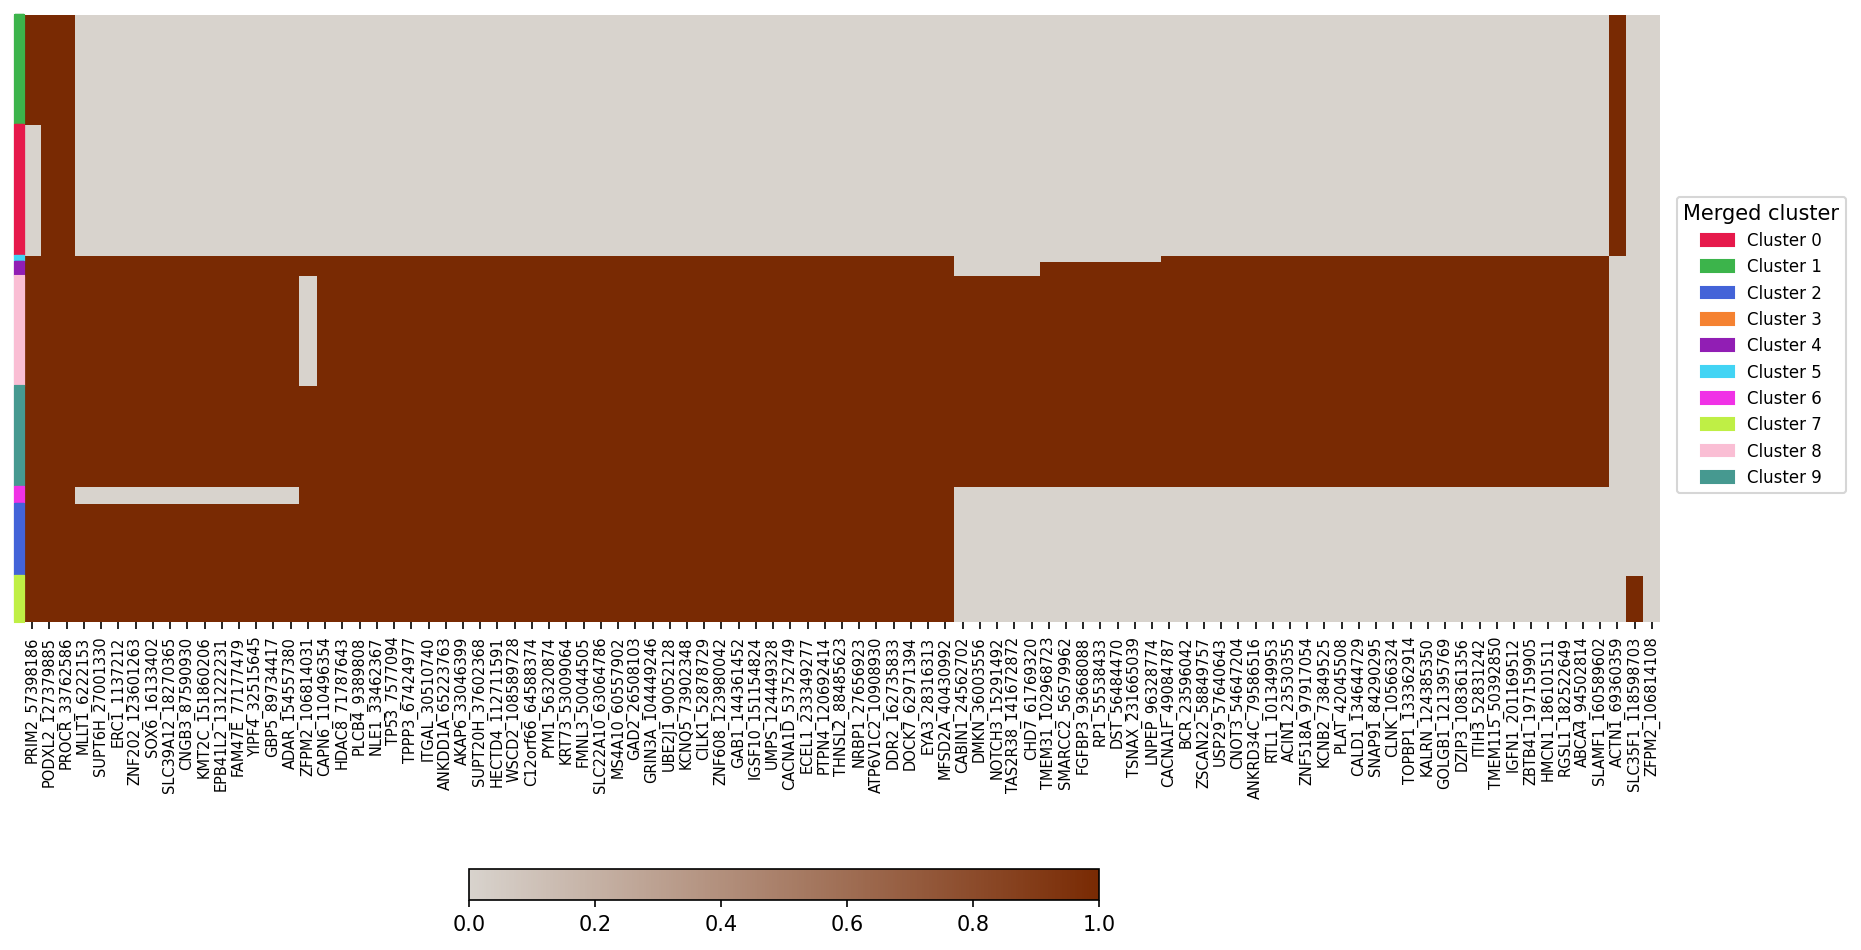
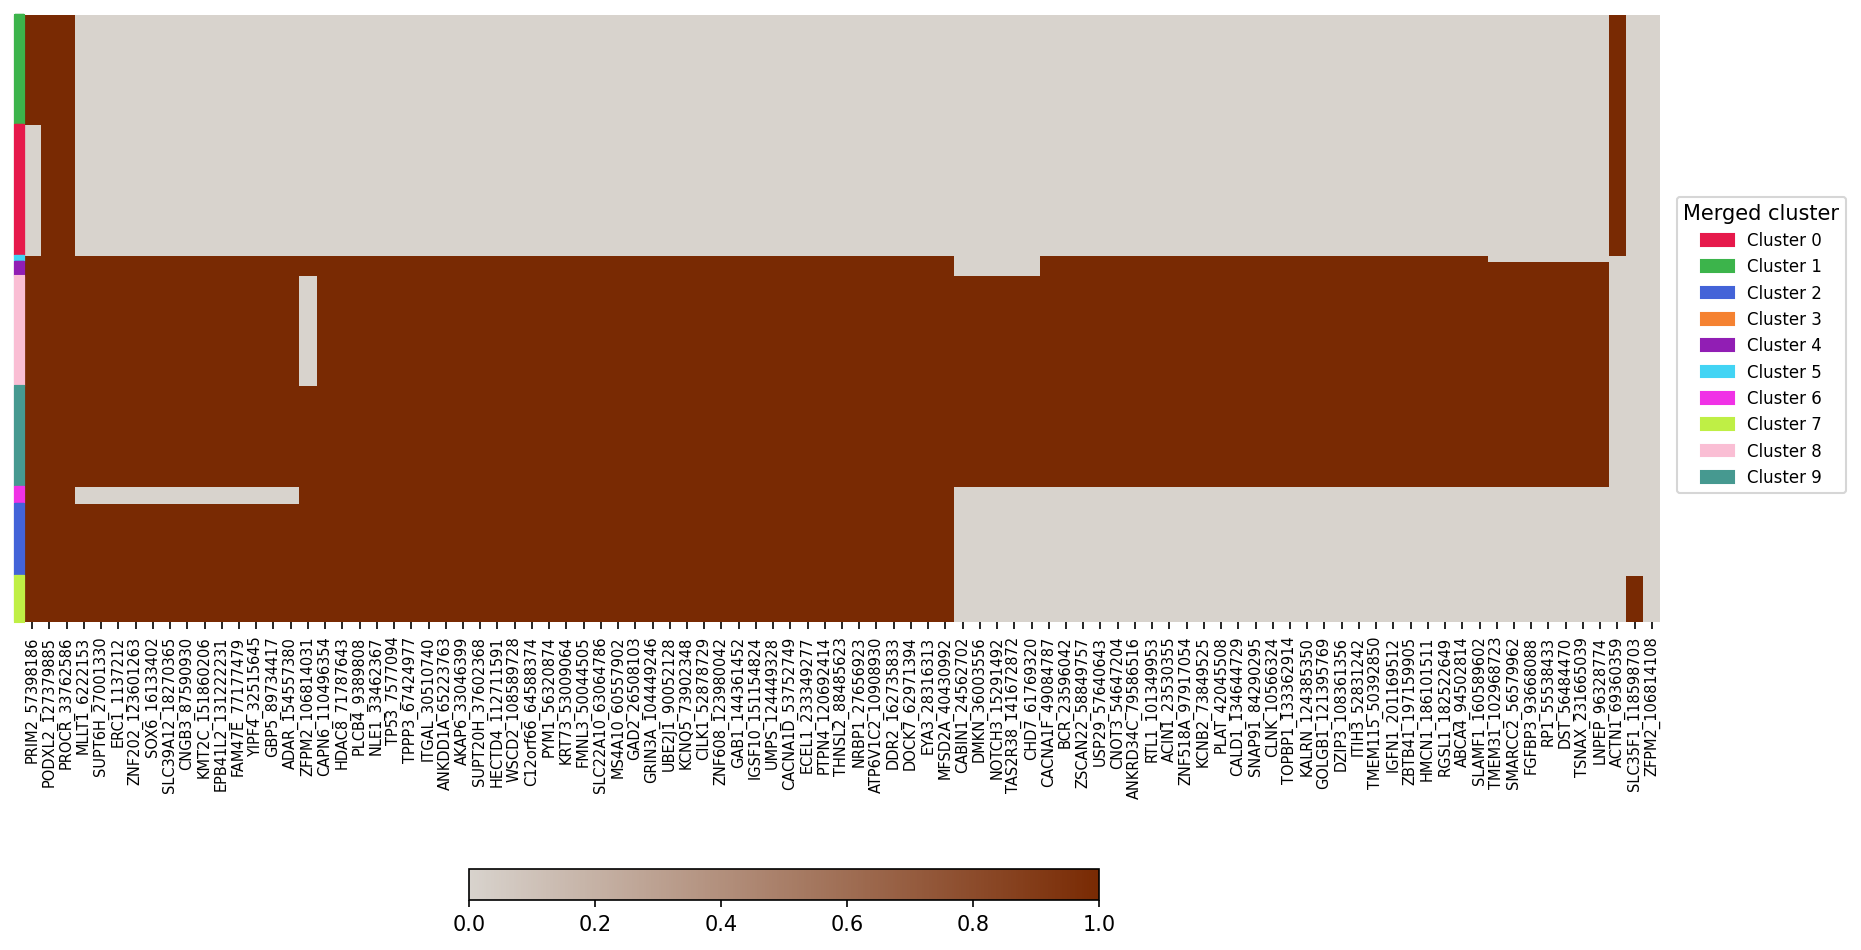
Update documentation

Changed region(s): [[0.561, 0.6716, 0.8726, 0.8242], [0.8103, 0.2442, 0.8726, 0.2747], [0.561, 0.2442, 0.6233, 0.2747]]

diff --git a/docs/tnbc.md b/docs/tnbc.md
@@ -10,13 +10,14 @@
 
 ### Running PHALCON
 
- * The output obtained from MissioBio Tapestri pipeline is in the form of loom files. The loom file for TN4 is present in the folder [loom file](https://drive.google.com/drive/folders/1vW4XBpDR5H7cTjCcf_3dkokAOKc9Otcr?usp=drive_link).
+* The output obtained from MissioBio Tapestri pipeline is in the form of loom files. The loom file for TN4 is present in the folder [loom file](https://drive.google.com/drive/folders/1vW4XBpDR5H7cTjCcf_3dkokAOKc9Otcr?usp=drive_link).
 * To convert the loom file in PHALCON-style input use the script ```loomToReadcount.py``` present in the same folder
+* Scripts for running PHALCON are present at [python scripts for running phalcon](https://drive.google.com/drive/folders/1Evck59kj2s5RYVdNzXWCGzAUIREU1_5A?usp=drive_link)
 
 <font color="red">Input</font> : Pass the readcount file, genotype quality file and the output prefix name.
 Run the following command:
 ```python
-python Algorithm_phalcon_indels.py -D TN4 -i readCounts_MBTN4_nodups.tsv -g gq_file_TN4.tsv -o TN4_
+python Algorithm_hierarchical.py -D TN4 -i readCounts_MBTN4_nodups.tsv -g gq_file_TN4.tsv -o TN4_
 ```
 <font color="red">Output</font> : 
 You will get the variants inferred by PHALCON in form of a VCF file.
@@ -32,52 +33,45 @@ Subset vcf output:
 ##FORMAT=<ID=GQ,Number=1,Type=Integer,Description="Genotype Quality">
 ##FORMAT=<ID=GT,Number=1,Type=String,Description="Genotype">
 ##FORMAT=<ID=PL,Number=G,Type=Integer,Description="Normalized, Phred-scaled likelihoods for genotypes as defined in the VCF specification">
-#CHROM  POS     ID      REF     ALT     QUAL    FILTER  INFO    FORMAT  cell1   cell2   cell3   cell4   cell5   cell6   cell7   cell8   cell9   cell10  cell11  cell12  cell13  cell14  cell15  >
-chr1    115258748       *       C       T       *       PASS    DP=809943       GT:AD:DP:GQ:PL  0/1:392:392:99  0/1:227:430:99  0/0:0:444:99    0/0:0:205:99    0/0:0:0:99      0/0:0:211:99    >
-chr1    115258749       *       T       G       *       PASS    DP=805084       GT:AD:DP:GQ:PL  0/1:392:392:99  0/1:227:430:99  0/0:0:0:99      0/0:0:207:99    0/0:0:104:99    0/0:0:209:99    >
-chr2    25463285        *       GCGGTAGAACTCAAA G       *       PASS    DP=188342       GT:AD:DP:GQ:PL  0/1:0:97:99     0/1:6:23:99     0/1:0:0:12      0/1:26:44:99    0/0:0:124:99    0/1:47:4>
-chr2    25469085        *       CG      C       *       PASS    DP=216991       GT:AD:DP:GQ:PL  0/0:0:149:99    0/0:0:63:99     0/1:0:19:57     0/0:0:149:99    0/0:1:124:99    0/1:0:0:99      >
-chr2    25469913        *       C       T       *       PASS    DP=128427       GT:AD:DP:GQ:PL  0/1:0:39:99     0/1:39:60:99    0/1:32:32:95    0/1:22:33:99    0/1:66:93:99    0/1:29:33:35    >
-chr2    198266943       *       C       T       *       PASS    DP=689574       GT:AD:DP:GQ:PL  0/1:307:313:99  0/1:72:72:99    0/1:149:151:99  0/1:217:217:99  0/1:242:242:99  0/1:153:154:99  >
-chr2    198267770       *       G       GAA     *       PASS    DP=257605       GT:AD:DP:GQ:PL  0/1:46:92:99    0/1:0:0:99      0/1:27:59:99    0/1:15:22:99    0/1:56:117:99   0/1:0:0:99      >
-chr4    55592244        *       G       A       *       PASS    DP=266536       GT:AD:DP:GQ:PL  0/1:93:325:99   0/1:0:0:99      0/1:0:0:99      0/1:0:0:99      0/1:15:65:99    0/1:0:0:99      
+#CHROM  POS     ID      REF     ALT     QUAL    FILTER  INFO    FORMAT  cell1   cell2   cell3   cell4   cell5   cell6   cell7   cell8   cell9   cell10  cell11>
+chr1    28316313        *       C       A       *       PASS    DP=853946       GT:AD:DP:GQ:PL  0/0:0:20:60     0/1:10:10:30    0/1:39:47:57    0/1:387:388:99>
+chr1    40430992        *       G       C       *       PASS    DP=559770       GT:AD:DP:GQ:PL  0/0:2:40:70     0/1:82:150:99   0/1:30:53:99    0/1:172:437:99>
+chr1    45811136        *       C       T       *       PASS    DP=1282176      GT:AD:DP:GQ:PL  0/1:25:50:99    0/1:32:56:99    0/1:148:262:99  0/1:502:1054:9>
+chr1    62740446        *       T       C       *       PASS    DP=1900868      GT:AD:DP:GQ:PL  0/1:32:81:99    0/1:75:189:99   0/1:80:170:99   0/1:400:1084:9>
+chr1    62740449        *       T       C       *       PASS    DP=1909598      GT:AD:DP:GQ:PL  0/1:32:81:99    0/1:75:189:99   0/1:80:170:99   0/1:405:1084:9>
+chr1    62971394        *       G       C       *       PASS    DP=3745080      GT:AD:DP:GQ:PL  0/0:2:179:99    0/1:79:155:99   0/1:219:553:99  0/1:484:984:99>
+chr1    89734417        *       C       G       *       PASS    DP=1321902      GT:AD:DP:GQ:PL  0/0:2:278:99    0/1:120:238:99  0/1:78:198:99   0/1:131:446:99>
+chr1    94502814        *       G       C       *       PASS    DP=557482       GT:AD:DP:GQ:PL  0/0:0:24:72     0/1:8:33:84     0/1:14:90:47    0/1:38:117:99 >
+chr1    145015876       *       A       G       *       PASS    DP=1541480      GT:AD:DP:GQ:PL  0/0:2:168:99    0/0:19:132:75   0/0:4:205:99    0/0:6:1224:99 >
+chr1    145112420       *       C       T       *       PASS    DP=1947138      GT:AD:DP:GQ:PL  0/1:62:156:99   0/1:27:119:99   0/1:101:367:99  0/1:481:1447:9>  
 ```
 
-### Post-processing using dbSNP
+### Post-processing and annotation
 
-The post processing includes removing variants with no mutation across all cells and removing clonal variants present in the dbSNP database 📑 
+The intermediate steps to obtain the final annotated list of variants are explained in detail below:
+
+#### Post-processing using dbSNP and matched normal removal
+
+For AML, the post processing includes removing variants with no mutation across all cells, removing clonal variants present in the dbSNP database 📑 and removing variants present in the matched normal sample.
 
 *  The dbSNP.vcf is present at the link [dbSNP_database](https://drive.google.com/file/d/1yy30skLXLOd4jDniXLWgaEqqozATlCN0/view?usp=drive_link)
+(Change the location of the dbsnp vcf file accordingly in the python script.)
 
+* Python script to perform post-processing is present in the same folder under the name `dbsnp_normal_removal_from_tnbc.py`
 
-Follow the steps below to generate the final vcf file of post-processed variants:
-
-*  Download the folder [post-processing](https://drive.google.com/drive/folders/1pEHDfl8mCl3LuR02_PLioJCtQRRQ97Xx?usp=drive_link) in your local system
-*   Open termnal inside the folder and type ```jupyter-notebook```
-* Open the notebook [Post-processing_AML-67-001.ipynb](https://drive.google.com/file/d/1Yt3M_x0wBndzOCs9wl16o0pzKw_LAxfu/view?usp=drive_link)
-* Run ```dbsnp_for_aml_finite_sites.py```
-* You will get a final list of variants in form of a vcf file in a file name ending with ```_post_processed_final.vcf```
-
-**NOTE**: As input to the ```dbsnp_for_aml_finite_sites.py``` python file, you only need the vcf file you obtained after running PHALCON. 
+**NOTE**: As input to the `dbsnp_normal_removal_from_tnbc.py` python file, you only need the vcf file you obtained after running PHALCON. 
 If required, change the location of the vcf file accordingly. 
 
 * Use ```-i``` to provide location of the input vcf file 
 * Use ```-o``` to mention the name of the post processed vcf file
 
-### Annotate variants
+#### Annotate variants
 
-For variant annotation using ANNOVAR, the necessary files and scripts are present in the [annotating_variants](https://drive.google.com/drive/folders/1pfyQ7VWEw9cZKXe9RLwVetxKC4SY2vss?usp=drive_link) link. 
+For variant annotation using ANNOVAR, the necessary files and scripts are present in the [annotating_variants](https://drive.google.com/drive/folders/12Kmuvd4ZcNbwtCSbGjrhKp4OudKsaZQ1?usp=drive_link) link. 
 
+* Python script to obtain the annotations is present in the same folder under the name `run_annovar_for_annotating_final_variants.py`
 
-Use the following steps to annotate mutations:
-
-*  Download the folder [annotating_variants](https://drive.google.com/drive/folders/1pfyQ7VWEw9cZKXe9RLwVetxKC4SY2vss?usp=drive_link) in your local system
-*   Open termnal inside the folder and type ```jupyter-notebook```
-* Open the notebook [Annotating_the_final_variants.ipynb](https://drive.google.com/file/d/1WBz1aBEFTjcZbZ4y6XOBEubgQwR3gvGk/view?usp=drive_link)
-* Run ```run_annovar_for_annotating_final_variants.py```
-* You will get an annotated files of the final variants
-
-**NOTE**: As input to the ```run_annovar_for_annotating_final_variants.py``` python file, you only need the post-processed vcf file. 
+**NOTE**: As input to the `run_annovar_for_annotating_final_variants.py` python file, you only need the post-processed vcf file. 
 If required, change the location of the vcf file accordingly. 
 
 * Use ```-i``` to provide location of the post-processed input vcf file 
@@ -98,11 +92,13 @@ The following files are needed to produce the final tree and genotypes (All of t
 * ```--vcf_file``` : Final post-processed VCF file (Post-processed final VCF file, refer to [Post-processing using dbSNP](#post-processing-using-dbsnp))
 * ```--variant_function_file``` : Gene-annotated file of the post-processed VCF file, refer to [Annotate variants](#annotate-variants))
 
-Run the following command (all the files used in the command can also be found in the [Input_for_visualisation](https://drive.google.com/drive/folders/1Y0UDlHPwAHSQaWybjpWQDzZHkqkEs4_h?usp=drive_link) folder for ease):
+**For a consolidated run including post processing, annotation and visualisation, follow the steps**:
 
-```python
-python phalcon_visualization_pipeline.py -d TN4 --cluster_labels_file TN4_inferred_cluster_labels.txt --lklhd_file TN4_final_lklhds.tsv --final_df_file TN4_final_df.tsv --genotype_config_file TN4_Genotype_configuration.tsv --newick_file TN4_inferred_tree.nw --vcf_file TN4_post_processed_vcf.vcf --variant_function_file TN4_final.avinput.variant_function
-```
+* Download the folder [post_processing_plotting_and_visualisation](https://drive.google.com/drive/folders/1WEFGqmpW1zGKFy9tHxB_Olx5HT8XvVqg?usp=drive_link) in your local system.
+* Open terminal inside the folder and type ```jupyter-notebook```.
+* Open the notebook [Post_processing_anotation_and_visualisation](https://drive.google.com/file/d/17G8aQVumRexSpp_QBzuPTWnTYcELdC9K/view?usp=drive_link) and run the contents.
+* The outputs will be saved in the [Output](https://drive.google.com/drive/folders/1dUHPSmZvjNXg105h9JqB6aSgEUeaJYYr?usp=drive_link) folder.
+
 You will obtain the following outputs:
 
 * <font color="red">**Genotype heatmap**</font>:

diff --git a/docs/aml_67_001.md b/docs/aml_67_001.md
@@ -10,8 +10,9 @@
 
 ### Running PHALCON
 
- * The output obtained from MissioBio Tapestri pipeline is in the form of loom files. The loom file for AML-67-001 is present in the folder [loom file](https://drive.google.com/drive/folders/1a_pXJQqRHxtCsm-8h4nI0Ctw4pOM9emK?usp=drive_link).
+* The output obtained from MissioBio Tapestri pipeline is in the form of loom files. The loom file for AML-67-001 is present in the folder [loom file](https://drive.google.com/drive/folders/1a_pXJQqRHxtCsm-8h4nI0Ctw4pOM9emK?usp=drive_link).
 * To convert the loom file in PHALCON-style input use the script ```loompy_to_readcount_indels.py``` present in the same folder
+* Scripts for running PHALCON are present at [python scripts for running phalcon](https://drive.google.com/drive/folders/1LSiXQCXC7oHM32MzS7dzg05Y6ATuDFfQ?usp=drive_link)
 
 <font color="red">Input</font> : Pass the readcount file, genotype quality file and the output prefix name.
 Run the following command:
@@ -43,41 +44,34 @@ chr2    198267770       *       G       GAA     *       PASS    DP=257605       
 chr4    55592244        *       G       A       *       PASS    DP=266536       GT:AD:DP:GQ:PL  0/1:93:325:99   0/1:0:0:99      0/1:0:0:99      0/1:0:0:99      0/1:15:65:99    0/1:0:0:99      
 ```
 
-### Post-processing using dbSNP
+### Post-processing and annotation
 
-The post processing includes removing variants with no mutation across all cells and removing clonal variants present in the dbSNP database 📑 
+The intermediate steps to obtain the final annotated list of variants are explained in detail below:
+
+#### Post-processing using dbSNP
+
+For AML, the post processing includes removing variants with no mutation across all cells and removing clonal variants present in the dbSNP database 📑 
+
+All the necessary scripts are present in the folder [post-processing](https://drive.google.com/drive/folders/1EYF22w9I5pwoEc4mwTW8Appjd7dDGMy2?usp=drive_link)
 
 *  The dbSNP.vcf is present at the link [dbSNP_database](https://drive.google.com/file/d/1yy30skLXLOd4jDniXLWgaEqqozATlCN0/view?usp=drive_link)
+(Change the location of the dbsnp vcf file accordingly in the python script.)
 
+* Python script to perform post-processing is present in the same folder under the name `dbsnp_for_aml_finite_sites.py`
 
-Follow the steps below to generate the final vcf file of post-processed variants:
-
-*  Download the folder [post-processing](https://drive.google.com/drive/folders/1pEHDfl8mCl3LuR02_PLioJCtQRRQ97Xx?usp=drive_link) in your local system
-*   Open termnal inside the folder and type ```jupyter-notebook```
-* Open the notebook [Post-processing_AML-67-001.ipynb](https://drive.google.com/file/d/1Yt3M_x0wBndzOCs9wl16o0pzKw_LAxfu/view?usp=drive_link)
-* Run ```dbsnp_for_aml_finite_sites.py```
-* You will get a final list of variants in form of a vcf file in a file name ending with ```_post_processed_final.vcf```
-
-**NOTE**: As input to the ```dbsnp_for_aml_finite_sites.py``` python file, you only need the vcf file you obtained after running PHALCON. 
+**NOTE**: As input to the `dbsnp_for_aml_finite_sites.py` python file, you only need the vcf file you obtained after running PHALCON. 
 If required, change the location of the vcf file accordingly. 
 
 * Use ```-i``` to provide location of the input vcf file 
 * Use ```-o``` to mention the name of the post processed vcf file
 
-### Annotate variants
+#### Annotate variants
 
-For variant annotation using ANNOVAR, the necessary files and scripts are present in the [annotating_variants](https://drive.google.com/drive/folders/1pfyQ7VWEw9cZKXe9RLwVetxKC4SY2vss?usp=drive_link) link. 
+For variant annotation using ANNOVAR, the necessary files and scripts are present in the [annotate_variants](https://drive.google.com/drive/folders/13J2u88jdaEKZ8XfcU48OK6qiqCUNrUOJ?usp=drive_link) link. 
 
+* Python script to obtain the annotations is present in the same folder under the name `run_annovar_for_annotating_final_variants.py`
 
-Use the following steps to annotate mutations:
-
-*  Download the folder [annotating_variants](https://drive.google.com/drive/folders/1pfyQ7VWEw9cZKXe9RLwVetxKC4SY2vss?usp=drive_link) in your local system
-*   Open termnal inside the folder and type ```jupyter-notebook```
-* Open the notebook [Annotating_the_final_variants.ipynb](https://drive.google.com/file/d/1WBz1aBEFTjcZbZ4y6XOBEubgQwR3gvGk/view?usp=drive_link)
-* Run ```run_annovar_for_annotating_final_variants.py```
-* You will get an annotated files of the final variants
-
-**NOTE**: As input to the ```run_annovar_for_annotating_final_variants.py``` python file, you only need the post-processed vcf file. 
+**NOTE**: As input to the `run_annovar_for_annotating_final_variants.py` python file, you only need the post-processed vcf file. 
 If required, change the location of the vcf file accordingly. 
 
 * Use ```-i``` to provide location of the post-processed input vcf file 
@@ -98,10 +92,13 @@ The following files are needed to produce the final tree and genotypes (All of t
 * ```--vcf_file``` : Final post-processed VCF file (Post-processed final VCF file, refer to [Post-processing using dbSNP](#post-processing-using-dbsnp))
 * ```--variant_function_file``` : Gene-annotated file of the post-processed VCF file, refer to [Annotate variants](#annotate-variants))
 
-Run the following command (all the files used in the command can also be found in the [Input_for_visualisation](https://drive.google.com/drive/folders/1Y0UDlHPwAHSQaWybjpWQDzZHkqkEs4_h?usp=drive_link) folder for ease):
-```python
-python phalcon_visualization_pipeline.py -d AML_67_001 --cluster_labels_file aml_67_001_inferred_cluster_labels.txt --lklhd_file aml_67_001_final_lklhds.tsv --final_df_file aml_67_001_final_df.tsv --genotype_config_file aml_67_001_Genotype_configuration.tsv --newick_file aml_67_001_inferred_tree.nw --vcf_file aml_67_001_post_processed_final.vcf --variant_function_file aml_67_001_output.avinput.variant_function
-```
+**For a consolidated run including post processing, annotation and visualisation, follow the steps**:
+
+* Download the folder [post_processing_plotting_and_visualisation](https://drive.google.com/drive/folders/1bYeRCrK8rhDjddt8YJgcl_5H1A35Rb-0?usp=drive_link) in your local system.
+* Open terminal inside the folder and type ```jupyter-notebook```.
+* Open the notebook [Post_processing_anotation_and_visualisation](https://drive.google.com/file/d/1QeIYKfwD1ZfOE51wjjHZP8nTdOEPgsh8/view?usp=drive_link) and run the contents.
+* The outputs will be saved in the [Output](https://drive.google.com/drive/folders/1WZ_6iJVP_GvPWy9j94cyWSGiZnb_OETk?usp=drive_link) folder.
+
 You will obtain the following outputs:
 
 * <font color="red">**Genotype heatmap**</font>:
@@ -120,6 +117,7 @@ The umap shows the clusters obtained by PHALCON on a 2-d plane.
 
 The reconstructed mutation history tree shows the order in which the mutations have appeared.
 ![Phylogenetic_tree](images/AML_67_001_clonal_tree.png)
+
 
 ### Co-occurence and mutual exclusivity patterns
 Use the R script provided in the [cooccurrence and mutual exclusivity script](https://drive.google.com/drive/folders/1HZnLuKZjOafRv2bcyIqDWJUzgIbssC9y?usp=sharing) folder to produce the plot. 